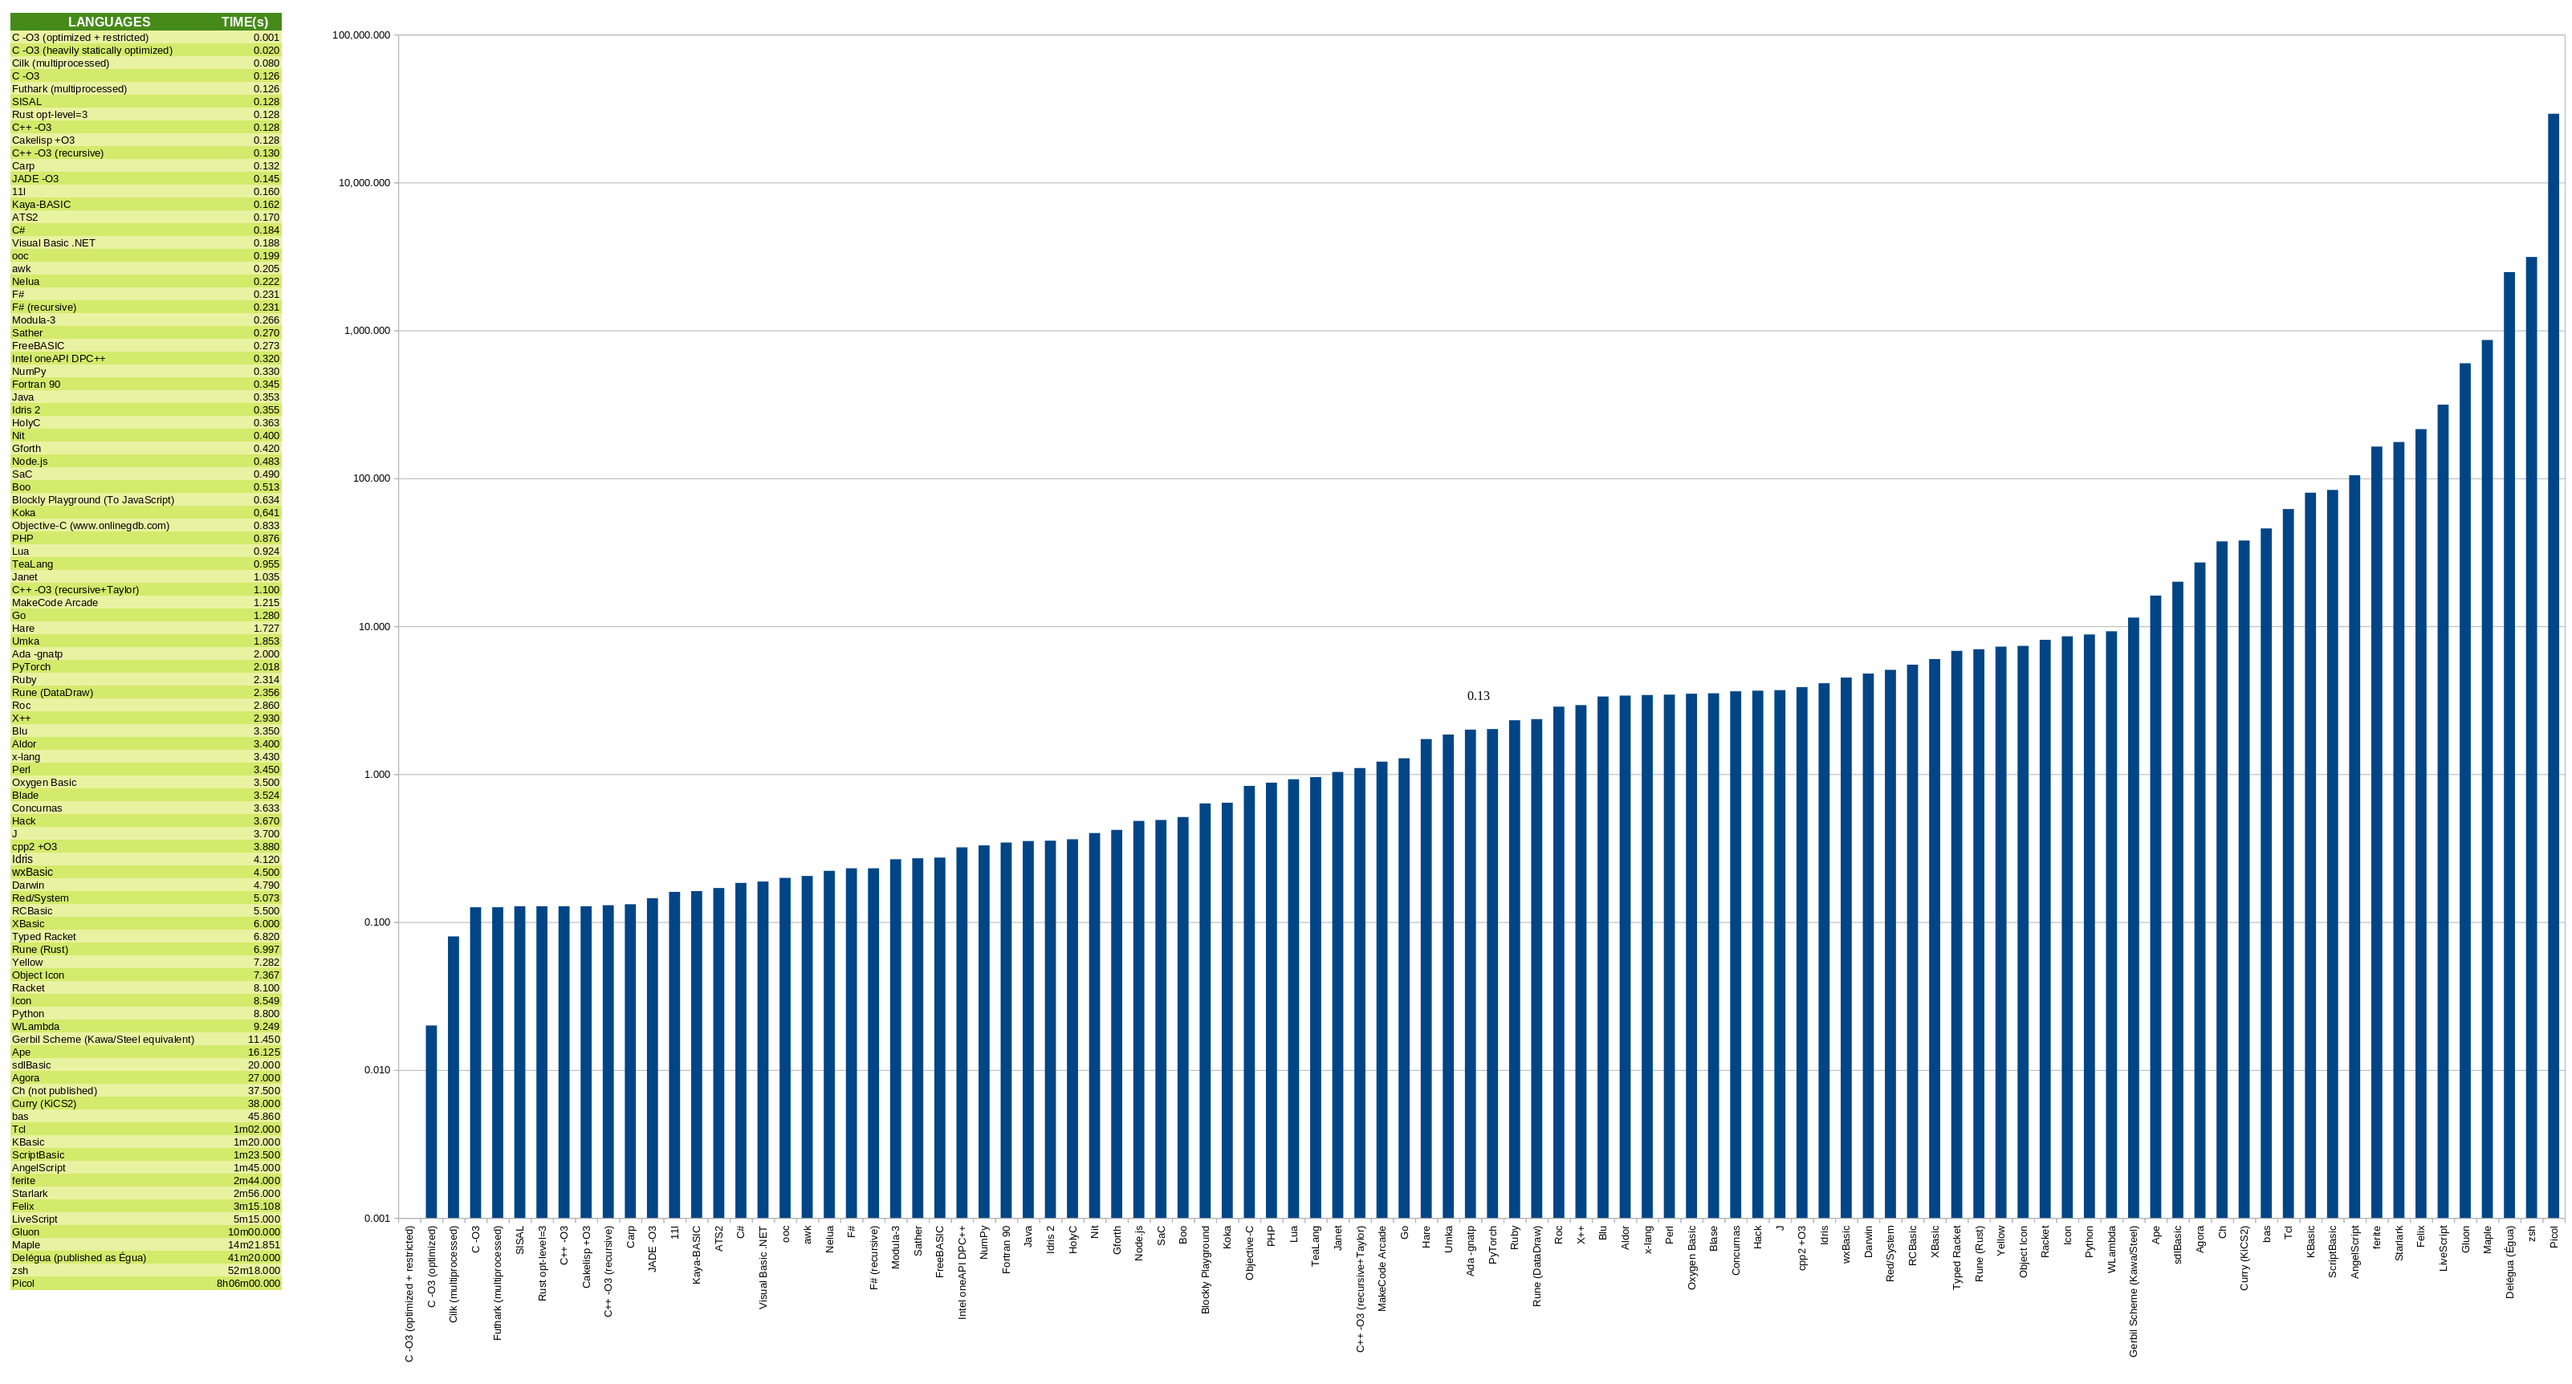
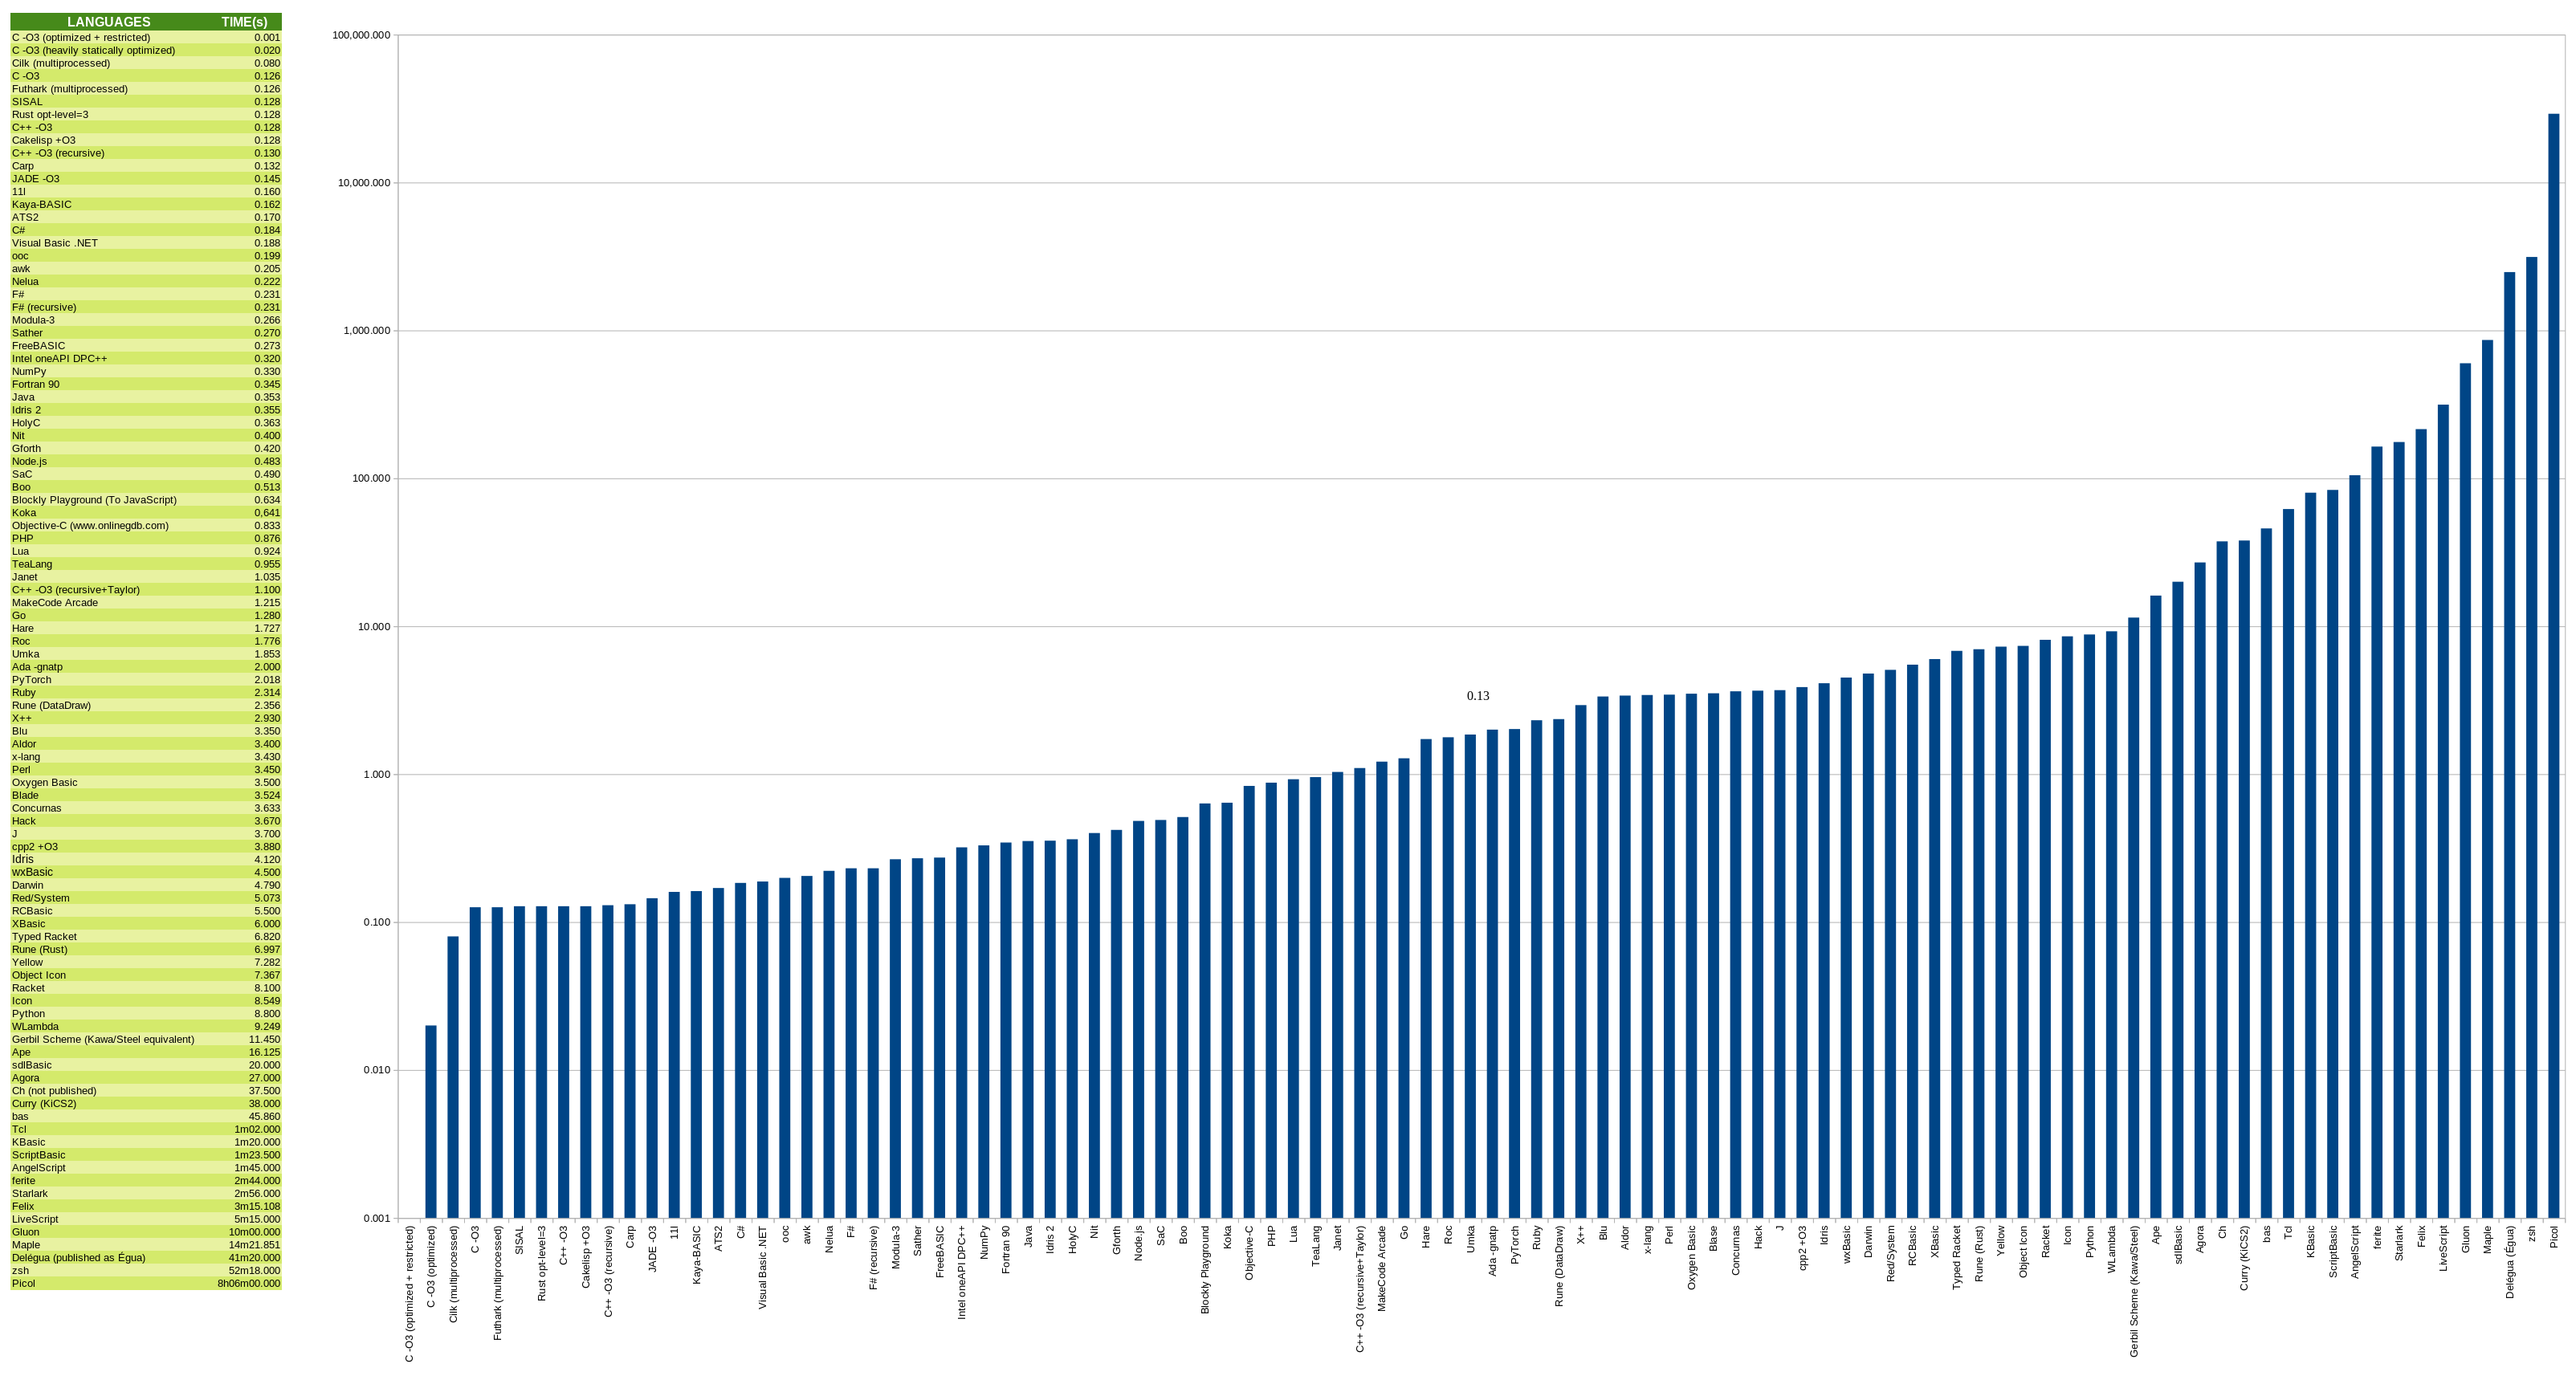
Add files via upload
Roc → TCO

diff --git a/SOLUCOES.md b/SOLUCOES.md
@@ -1350,7 +1350,7 @@ funções: [jurosf.bend](jurosf.bend)
 
 [juros.ring](juros.ring)
 
-### Roc (18/03/2026) 🚀 🔧 ♻ ✍
+### Roc (18/03/2026) 🚀 🔧 ♻ ✍ ➰
 
 [juros.roc](juros.roc)
 
